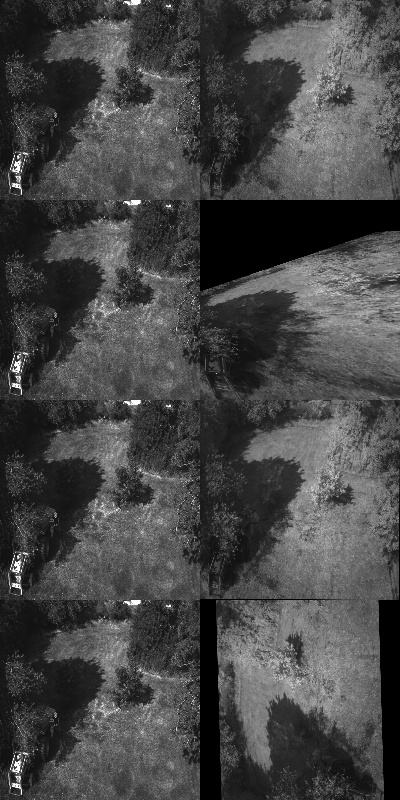
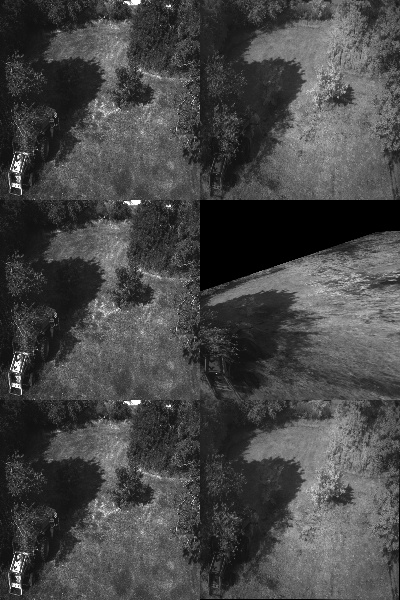
Testing new image alignment defaults and preparation of of ratiomap thresholding

diff --git a/Sprint4/overall.py b/Sprint4/overall.py
@@ -292,7 +292,6 @@ def nir_coordination_function():
 	# Prompt user to crop the input 
 	return
 
-
 def image_alignment_batch_testing():
 
 	multi_folder = "C:/Users/zthal/Desktop/Fall2021/EC601/GitHub/ec601_a1_proj12/Sprint4/BatchInput"
@@ -331,6 +330,7 @@ def image_alignment_batch_testing():
 
 
 	for i in range(0, len(rgb_list)):
+		print("Testing Image " + str(i))
 		# Open images from filepaths
 		rgb_image = cv2.imread(multi_folder + "/" + rgb_list[i])
 		red_image = cv2.imread(multi_folder + "/" + red_list[i])
@@ -339,22 +339,21 @@ def image_alignment_batch_testing():
 		green_image = cv2.imread(multi_folder + "/" + green_list[i])
 
 		# Perform image alignment algorithms - im1 is the reference, im2 is the matched/edited
+		print("Start Feature Align")
 		f_aligned, warp_matrix = featureAlign(nir_image, red_image)
+		print("Start ECC Align")
 		ecc_aligned, warp_matrix = eccAlign(red_image, nir_image)
-		rotated, rotationMatrix = rotationAlign(red_image, nir_image)
-
+		print()
 		c_red_image = cv2.resize(cv2.cvtColor(red_image, cv2.COLOR_BGR2GRAY), (200,200))
 		c_nir_image = cv2.resize(cv2.cvtColor(nir_image, cv2.COLOR_BGR2GRAY), (200,200))
 		c_f_aligned_nir = cv2.resize(cv2.cvtColor(f_aligned, cv2.COLOR_BGR2GRAY), (200,200))
 		c_ecc_aligned_nir = cv2.resize(cv2.cvtColor(ecc_aligned, cv2.COLOR_BGR2GRAY), (200,200))
-		c_rotated_nir = cv2.resize(cv2.cvtColor(rotated, cv2.COLOR_BGR2GRAY), (200,200))
 
 		c_row1 = np.hstack([c_red_image, c_nir_image])
 		c_row2 = np.hstack([c_red_image, c_f_aligned_nir])
 		c_row3 = np.hstack([c_red_image, c_ecc_aligned_nir])
-		c_row4 = np.hstack([c_red_image, c_rotated_nir])
 
-		collage = np.vstack([c_row1, c_row2, c_row3, c_row4])
+		collage = np.vstack([c_row1, c_row2, c_row3])
 
 		cv2.imwrite(aligned_folder + "/" + "aligned_collage_" + str(i) + ".jpg", collage)
 
@@ -496,14 +495,21 @@ def nir_b_ratio(blue_band, green_band, red_band, nir_band):
 	difference_value = rgb_hsv[:,:,2]-rgnir_hsv[:,:,2]
 
 	# More complicated comparison between regions
-	# ratiomap_image = difference_hsv.copy()
-	# x_dim, y_dim = ratiomap_image.shape[:2]
-	# for x in range(0, x_dim):
-	# 	for y in range(0, y_dim):
-	# 		# Ratiomap = (Sat - Val) / (Sat + Val)
-	# 		# Need to do error checking for divide by zero, etc.
-	# 		ratiomap_image[x, y] = (rgnir_hsv[x,y,1] - rgnir_hsv[x,y,2]) / (rgnir_hsv[x,y,1] + rgnir_hsv[x,y,2])
+	ratiomap_image = difference_hsv.copy()
+	x_dim, y_dim = ratiomap_image.shape[:2]
+	for x in range(0, x_dim):
+		for y in range(0, y_dim):
+			# Ratiomap = (Sat - Val) / (Sat + Val)
+			# Need to do error checking for divide by zero, etc.
+			if (((rgnir_hsv[x,y,1] + rgnir_hsv[x,y,2]))==0):
+				ratiomap_image[x, y] = 255
+			else:
+				ratiomap_image[x, y] = abs((rgnir_hsv[x,y,1] - rgnir_hsv[x,y,2]) / (rgnir_hsv[x,y,1] + rgnir_hsv[x,y,2]))
 
+	ratiomap_blurred = cv2.blur(ratiomap_image, (5, 5))
+
+	# Adjust threshold here for mask creation
+	ret, r_difference_mask = cv2.threshold(difference_gray_blurred, 127, 255, cv2.THRESH_BINARY)
 
 	# Convert this image into a mask based on a threshold
 	difference_rgb = cv2.cvtColor(difference_hsv, cv2.COLOR_HSV2RGB)
@@ -542,11 +548,13 @@ def nir_b_ratio(blue_band, green_band, red_band, nir_band):
 	deshadowed_nir_vals = nir_band.copy()
 	x_dim, y_dim = red_band.shape[:2]
 
+	# Adjust value here for shadow removal method
+	adjustment = 50
 	for x in range(0, x_dim):
 		for y in range(0, y_dim):
-			if (difference_mask[x, y] == 255):
-				deshadowed_red_vals[x, y] = deshadowed_red_vals[x, y]+100
-				deshadowed_nir_vals[x, y] = deshadowed_nir_vals[x, y]+100
+			if (r_difference_mask[x, y] == 255):
+				deshadowed_red_vals[x, y] = deshadowed_red_vals[x, y] + adjustment
+				deshadowed_nir_vals[x, y] = deshadowed_nir_vals[x, y] + adjustment
 	
 	return deshadowed_red_vals, deshadowed_nir_vals
 
